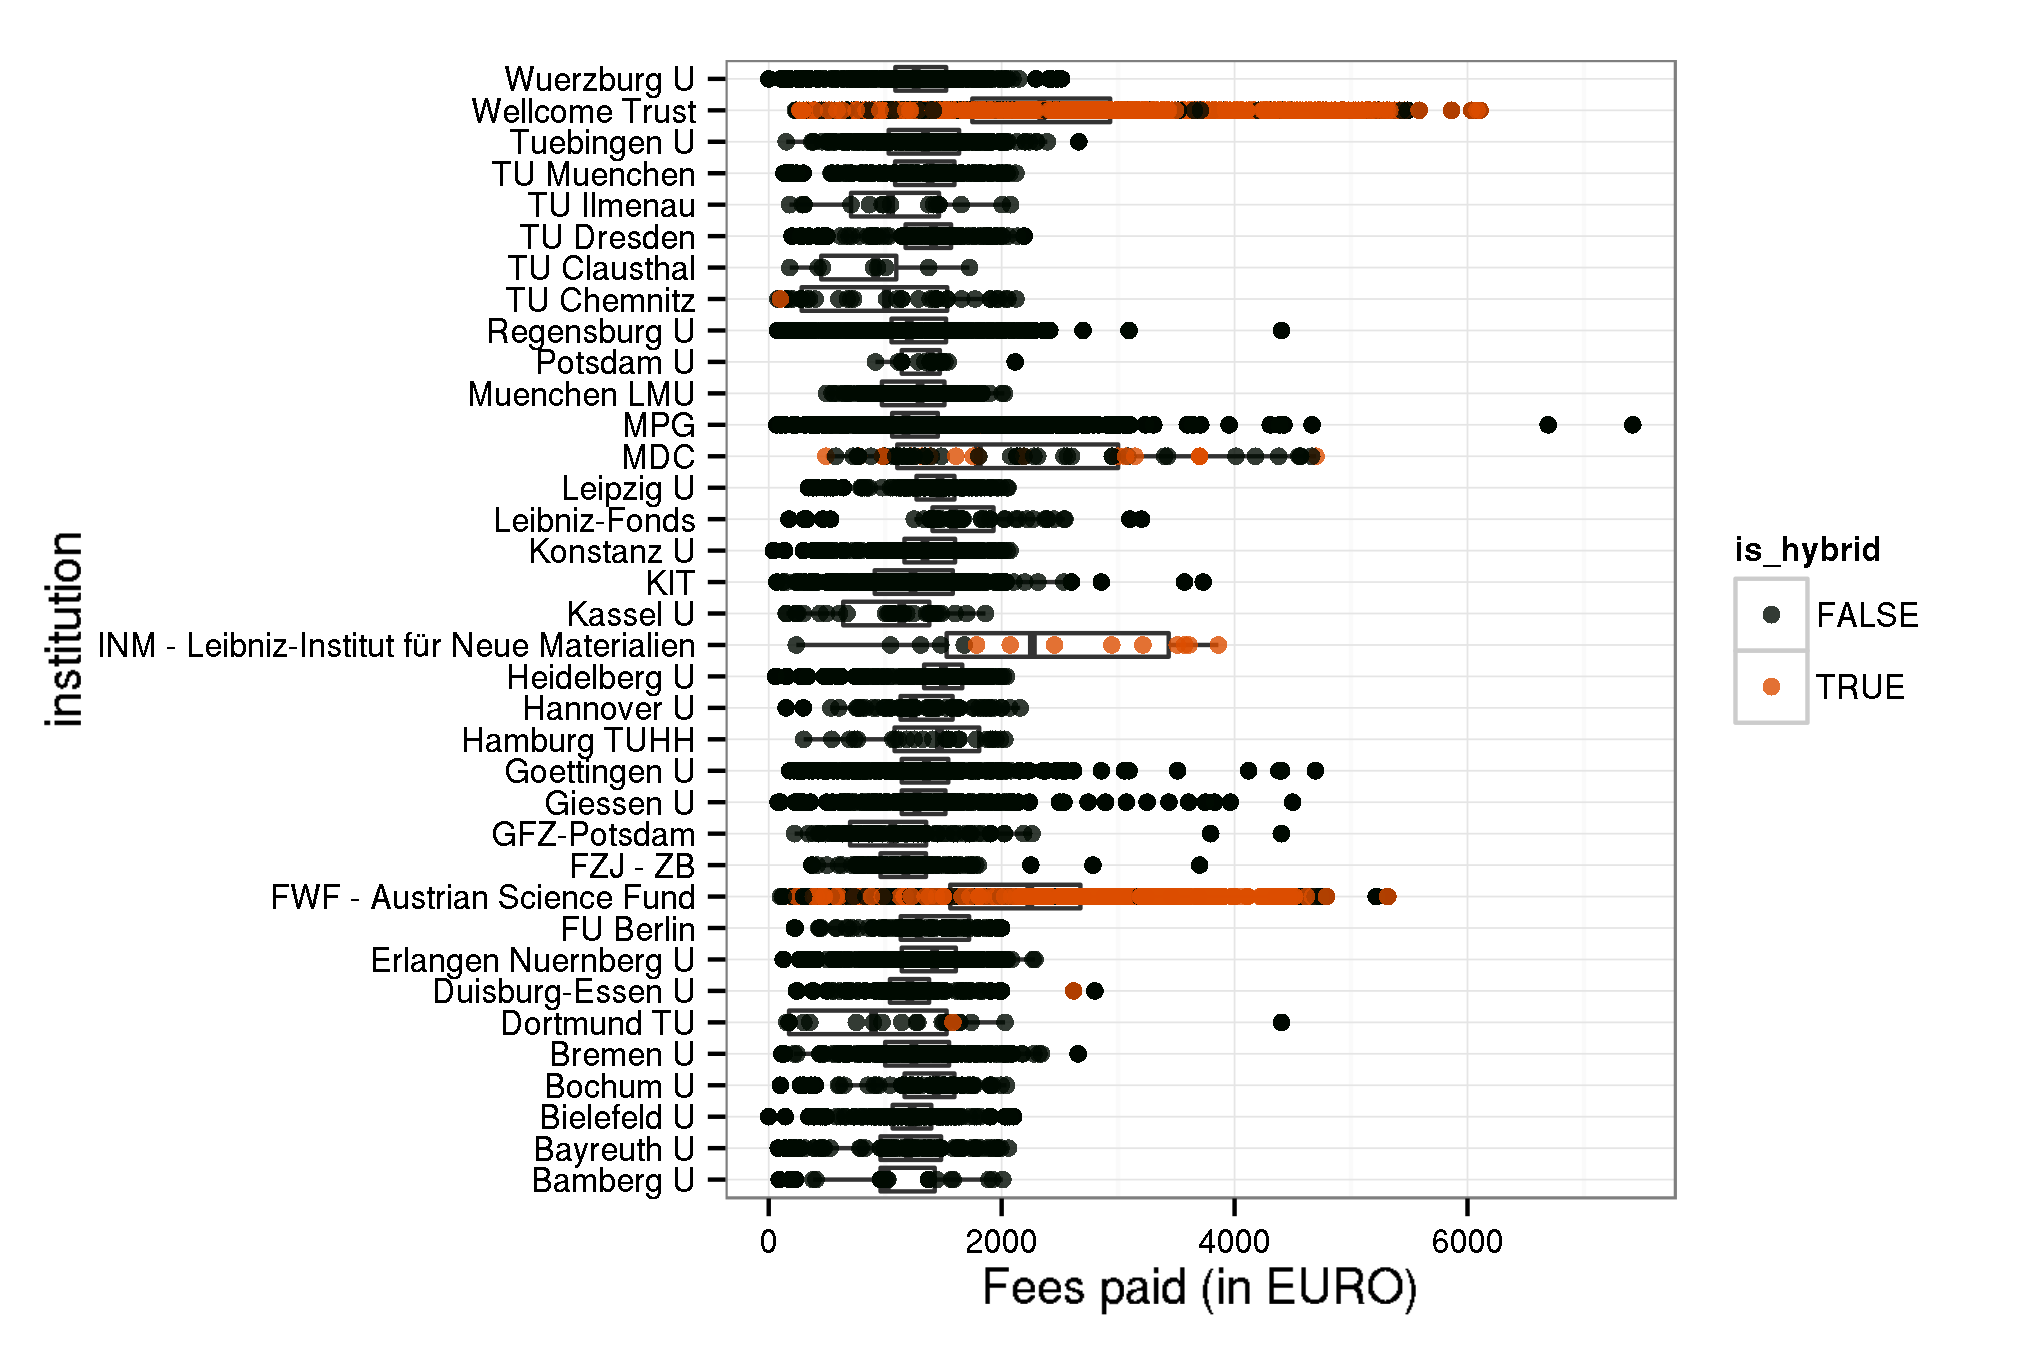
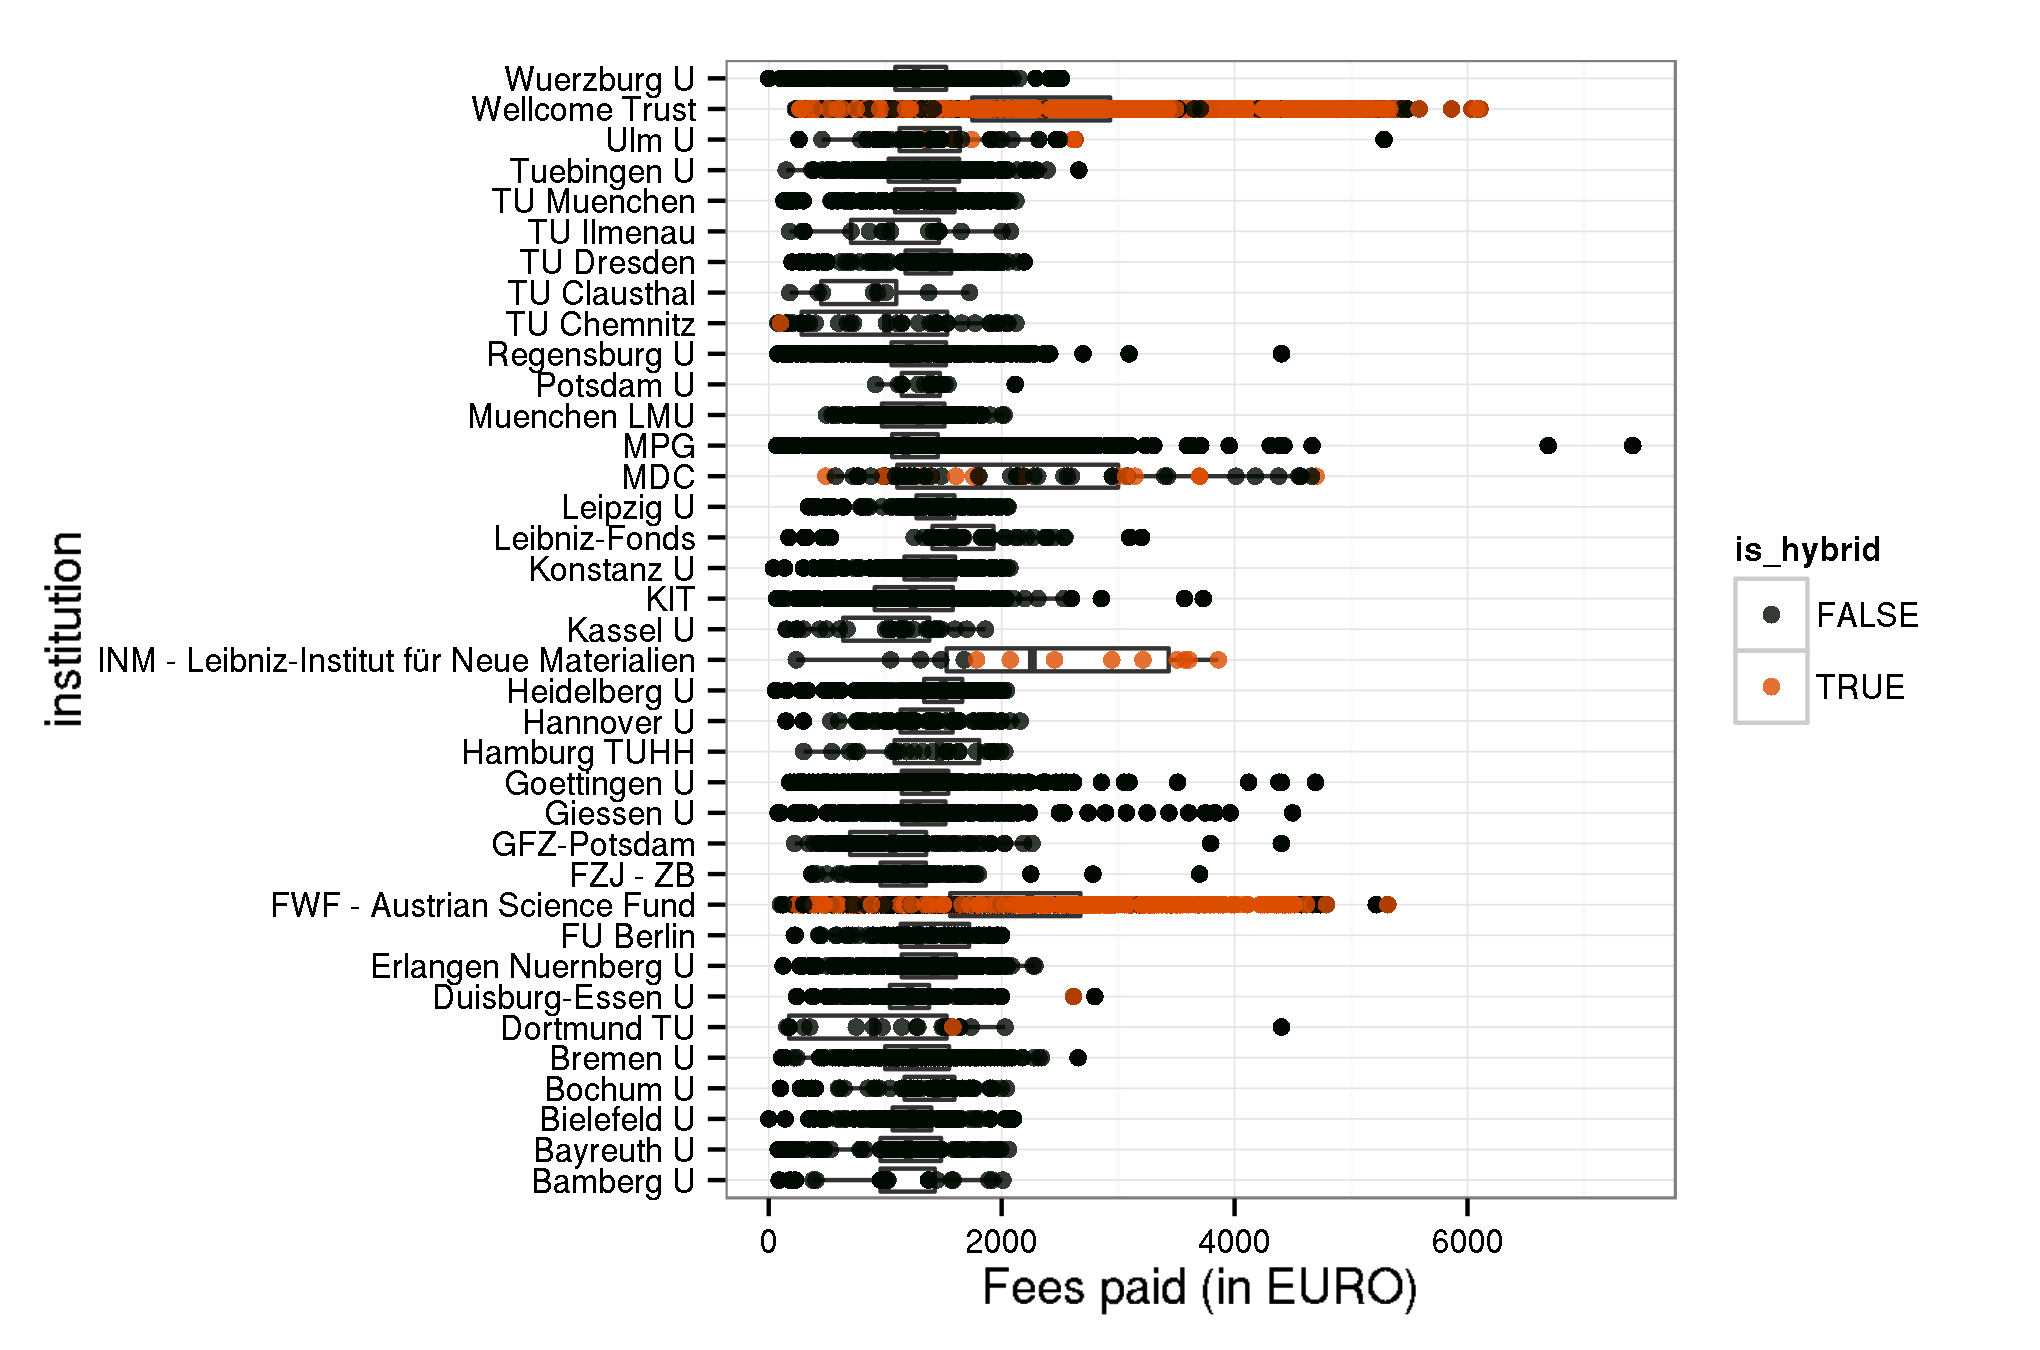
Added Uni Ulm data 2014+2015 (#156)

Changed region(s): [[0.0309, 0.0622, 0.7103, 0.8711], [0.7412, 0.3111, 0.8029, 0.3422], [0.6176, 0.2178, 0.6485, 0.28]]

diff --git a/README.md b/README.md
@@ -39,6 +39,7 @@ So far, the following German universities have agreed to share information on pa
 - [University of Potsdam](https://publishup.uni-potsdam.de/home/index/help/content/publication_fund)
 - [University of Regensburg](http://oa.uni-regensburg.de/)
 - [University of Tübingen](https://www.uni-tuebingen.de/en/facilities/university-library/researching-publishing/open-access-publikationsfonds.html)
+- [University of Ulm](https://www.uni-ulm.de/index.php?id=57202)
 - [University of Würzburg](http://www.bibliothek.uni-wuerzburg.de/en/service0/electronic_publishing/open_access/open_access_journals/)
 
 ## Participating Research Society Funds in Germany
@@ -71,13 +72,13 @@ The data content covers APCs as paid for by our central budget for the Max Planc
 
 Information on both open access journal articles and open access publication of articles in toll-access journals ("hybrid") are provided.
 
-In total,  31 985 649 € for  17 759 articles were paid by the participating universities. Average  fee is 1 801.1 € and the median 1 563 €.
+In total,  32 103 631 € for  17 837 articles were paid by the participating universities. Average  fee is 1 799.8 € and the median 1 562 €.
 
 ### Open Access Journals
 
 
 
-At the moment, the dataset releases information on 11 173 articles in open access journals which charge publication fees. Total expenditure amounts to  15 195 033 €. Average  fee is 1 360 € and the median 1 269 €.
+At the moment, the dataset releases information on 11 238 articles in open access journals which charge publication fees. Total expenditure amounts to  15 287 082 €. Average  fee is 1 360.3 € and the median 1 270 €.
 
 View dataset on [GitHub](https://github.com/OpenAPC/openapc-de/blob/master/data/apc_de.csv) or take a look at our [treemap visualisations](http://treemaps.intact-project.org).
 
@@ -118,6 +119,7 @@ View dataset on [GitHub](https://github.com/OpenAPC/openapc-de/blob/master/data/
 |TU Ilmenau                                  |       17|            18,540|         1,091|  1,046|
 |TU Muenchen                                 |      308|           390,086|         1,267|  1,386|
 |Tuebingen U                                 |      411|           548,124|         1,334|  1,346|
+|Ulm U                                       |       65|            92,049|         1,416|  1,285|
 |Wellcome Trust                              |    1,375|         2,367,564|         1,722|  1,602|
 |Wuerzburg U                                 |      469|           595,119|         1,269|  1,266|
 
@@ -125,7 +127,7 @@ View dataset on [GitHub](https://github.com/OpenAPC/openapc-de/blob/master/data/
 
 
 In many toll-access journals some of the articles are open access after a fee has been paid. This model is often called "hybrid open access".
-The dataset covers 6 586 hybrid open access articles. Total expenditure amounts to  16 790 617 €. Average  fee is 2 549.4 € and the median 2 589 €.
+The dataset covers 6 599 hybrid open access articles. Total expenditure amounts to  16 816 549 €. Average  fee is 2 548.3 € and the median 2 589 €.
 
 The following institutions have contributed its expenditures for hybrid open access.
 
@@ -139,6 +141,7 @@ The following institutions have contributed its expenditures for hybrid open acc
 |MDC                                         |       18|            42,227|         2,346|  1,996|
 |MPG                                         |       40|            63,548|         1,589|  1,669|
 |TU Chemnitz                                 |        1|               100|           100|    100|
+|Ulm U                                       |       13|            25,932|         1,995|  1,741|
 |Wellcome Trust                              |    3,934|        10,482,668|         2,665|  2,610|
 
 ## Use of external sources
@@ -165,9 +168,9 @@ External sources were used to compile the dataset. This allows for disambiguated
 |Identifier                 | Coverage                                                          |
 |:--------------------------|:------------------------------------------------------------------|
 |DOI                        |  99.52%       |
-|PubMed ID                  |  80.67%      |
-|PubMed Central ID          |  77.39%     |
-|Web of Science record ID   | 76.11%      |
+|PubMed ID                  |  80.64%      |
+|PubMed Central ID          |  77.33%     |
+|Web of Science record ID   | 75.78%      |
 
 
 
@@ -230,7 +233,7 @@ For data enrichment, sample visualisations and explorations we build on the work
 
 ## Contributors
 
-Benjamin Ahlborn, Jochen Apel, Hans-Georg Becker, Roland Bertelmann, Daniel Beucke, Peter Blume, Ute Blumtritt, Christoph Broschinski, Dorothea Busjahn, Gernot Deinzer, Andrea Dorner,  Clemens Engelhardt, Kristina Hanig, Dominik Hell, Ulrich Herb, Ute Holzwarth, Inken Feldsien-Sudhaus, Fabian Franke, Claudia Frick, Agnes Geißelmann, Kai Karin Geschuhn, Gerrit Kuehle, Doris Jaeger, Andreas Kennecke, Robert Kiley, Stephanie Kroiss, Kathrin Lucht-Roussel, Frank Lützenkirchen, Anja Oberländer, Vitali Peil, Dirk Pieper, Tobias Pohlmann, Markus Putnings, Michael Schlachter, Katharina Rieck, Florian Ruckelshausen, Birgit Schlegel, Adriana Sikora, Marco Tullney, Astrid Vieler, Marco Winkler, Sabine Witt, Najko Jahn
+Benjamin Ahlborn, Jochen Apel, Hans-Georg Becker, Roland Bertelmann, Daniel Beucke, Peter Blume, Ute Blumtritt, Christoph Broschinski, Dorothea Busjahn, Gernot Deinzer, Andrea Dorner, Clemens Engelhardt, Uli Hahn, Kristina Hanig, Dominik Hell, Ulrich Herb, Ute Holzwarth, Inken Feldsien-Sudhaus, Fabian Franke, Claudia Frick, Agnes Geißelmann, Kai Karin Geschuhn, Gerrit Kuehle, Doris Jaeger, Andreas Kennecke, Robert Kiley, Stephanie Kroiss, Kathrin Lucht-Roussel, Frank Lützenkirchen, Anja Oberländer, Vitali Peil, Dirk Pieper, Tobias Pohlmann, Markus Putnings, Michael Schlachter, Katharina Rieck, Florian Ruckelshausen, Birgit Schlegel, Adriana Sikora, Marco Tullney, Astrid Vieler, Marco Winkler, Sabine Witt, Najko Jahn
 
 ## Contact
 
